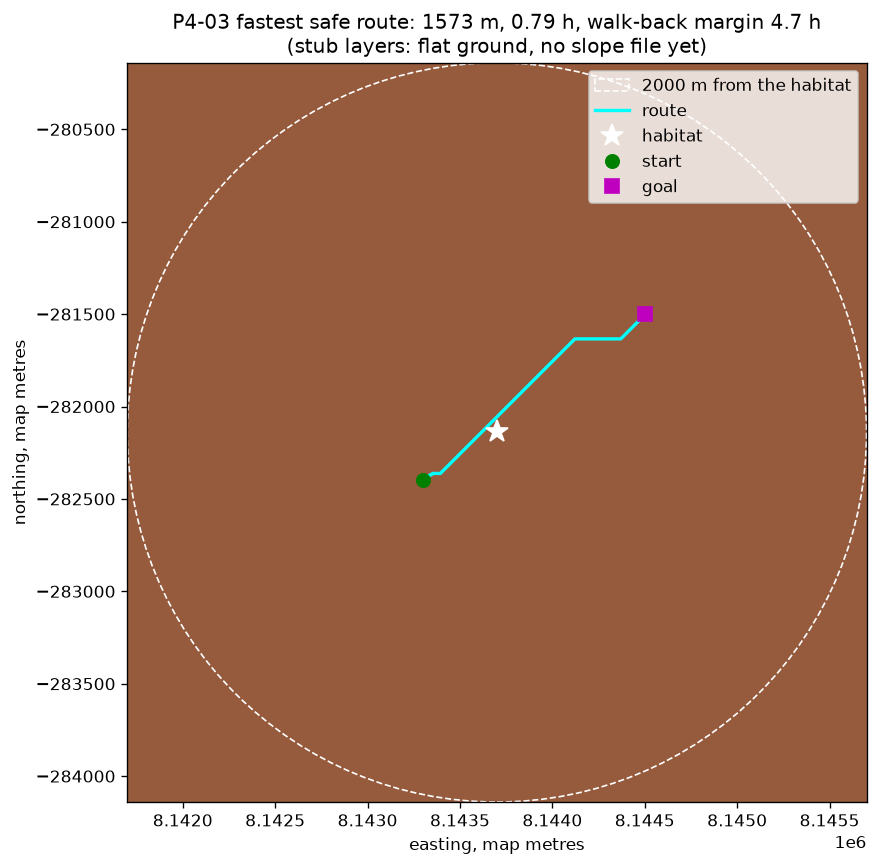
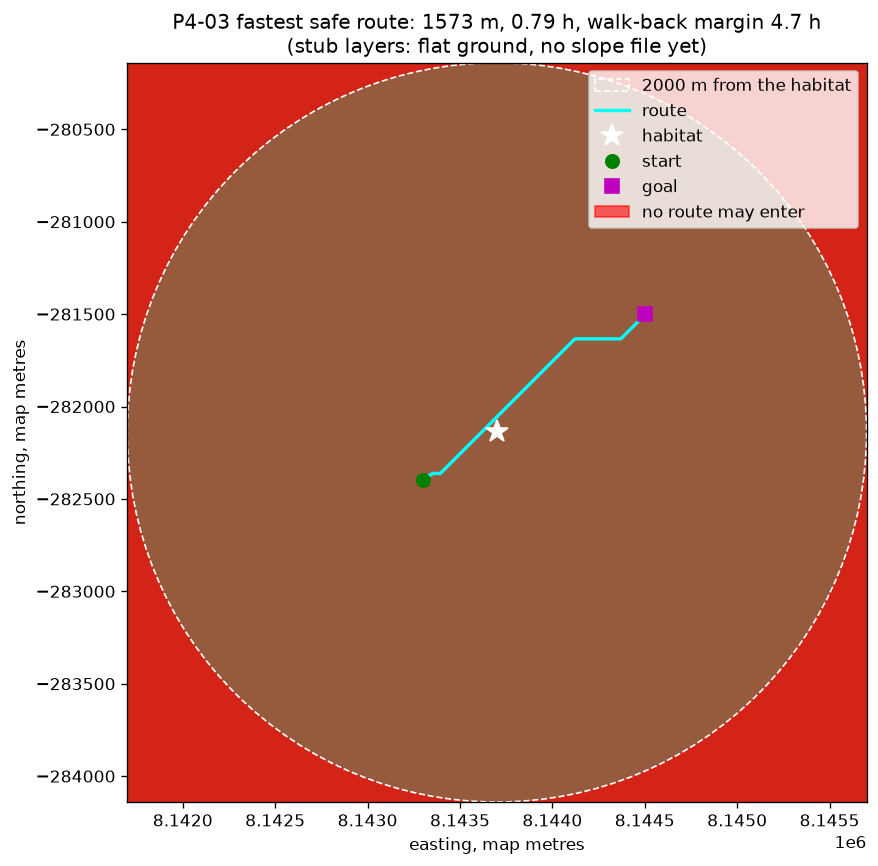
fix: keep unknown terrain unknown and forbid only corner-cutting steps (#37)
Resampling.max skipped nodata pixels, so a partly unknown planning cell could pass the
slope check; now any unknown pixel, or a cell past the file's edge, makes the cell unknown.
Sealing diagonal gaps blocked whole walkable cells; the search now runs on scipy's
Dijkstra over a step graph that drops only the diagonal step between two corner-touching
blocked cells. The overlay shades the engine's own blocked_cells.

Generated with [Devin](https://devin.ai)

diff --git a/route/engine.py b/route/engine.py
@@ -1,8 +1,8 @@
 """The route engine: a cost map from the layers and a minimum-cost path through it.
 
 Every cell costs the seconds it takes to walk across it. Cells that break a hard
-limit cost infinity, so the path search never enters them and no returned route
-can break one.
+limit are left out of the walking graph, so the path search never enters them and no
+returned route can break one.
 """
 
 from __future__ import annotations
@@ -10,7 +10,8 @@ from __future__ import annotations
 from dataclasses import dataclass
 
 import numpy as np
-from skimage.graph import MCP_Geometric
+from scipy.sparse import coo_matrix
+from scipy.sparse.csgraph import dijkstra
 
 from contracts.models.common import Point
 from contracts.models.route_request import Limits
@@ -65,21 +66,25 @@ class CostGrid:
 def plan_on_grid(
     grid: CostGrid, start: Point, goal: Point, habitat: Point, limits: Limits
 ) -> RouteResponse:
-    from_habitat = grid.distance_from(habitat)
-    blocked = ~(grid.slope_deg <= limits.max_slope_deg)
-    blocked |= from_habitat > limits.max_distance_from_habitat_m
+    blocked = blocked_cells(grid, habitat, limits)
     walk_s = _walk_seconds_per_cell(grid, limits.planning_speed_kmh)
-    cost = np.where(_seal_diagonal_gaps(blocked), np.inf, walk_s)
 
-    start_cell, goal_cell = grid.cell(start), grid.cell(goal)
+    start_cell, goal_cell, habitat_cell = grid.cell(start), grid.cell(goal), grid.cell(habitat)
     if start_cell == goal_cell:
         raise ValueError("start and goal are in the same planning cell")
-    mcp = MCP_Geometric(cost)
-    cumulative, _ = mcp.find_costs([start_cell], [goal_cell])
+    shape = blocked.shape
+    seconds, previous = dijkstra(
+        _walking_graph(walk_s, blocked),
+        directed=False,
+        indices=[np.ravel_multi_index(c, shape) for c in (start_cell, habitat_cell)],
+        return_predecessors=True,
+    )
+    cumulative, home = seconds[0].reshape(shape), seconds[1].reshape(shape)
     if not np.isfinite(cumulative[goal_cell]):
         raise NoSafeRoute("every path from start to goal breaks a hard limit")
-    cells = [tuple(c) for c in mcp.traceback(goal_cell)]
+    cells = _trace(previous[0], goal_cell, shape)
 
+    from_habitat = grid.distance_from(habitat)
     path = [grid.centre(r, c) for r, c in cells]
     steps = [
         float(np.hypot(r1 - r0, c1 - c0)) * grid.cell_m
@@ -90,7 +95,6 @@ def plan_on_grid(
     max_walk_s = limits.max_walk_h * 3600
     if total_s > max_walk_s:
         raise NoSafeRoute(f"the fastest safe path takes {total_s / 3600:.1f} h")
-    home, _ = MCP_Geometric(cost).find_costs([grid.cell(habitat)])
     if not all(np.isfinite(home[c]) for c in cells):
         raise NoSafeRoute("part of the route has no safe path back to the habitat")
     walk_back_margin_s = float(min(max_walk_s - cumulative[c] - home[c] for c in cells))
@@ -123,6 +127,73 @@ def plan_on_grid(
         ],
         checkpoints=[],
     )
+
+
+def _legs(cells, steps: list[float], elapsed: np.ndarray) -> list[Leg]:
+    """One leg per straight run of the path."""
+    moves = [(r1 - r0, c1 - c0) for (r0, c0), (r1, c1) in zip(cells, cells[1:], strict=False)]
+    turns = [i for i in range(1, len(moves)) if moves[i] != moves[i - 1]]
+    ends = [0, *turns, len(cells) - 1]
+    return [
+        Leg(
+            start_index=first,
+            end_index=last,
+            distance_m=sum(steps[first:last]),
+            time_s=float(elapsed[cells[last]] - elapsed[cells[first]]),
+        )
+        for first, last in zip(ends, ends[1:], strict=False)
+    ]
+
+
+def _walk_seconds_per_cell(grid: CostGrid, planning_speed_kmh: float) -> np.ndarray:
+    seconds = (3.6 / planning_speed_kmh) * grid.cell_m
+    seconds = seconds * np.exp(TOBLER_RATE * np.tan(np.radians(np.minimum(grid.slope_deg, 89))))
+    seconds = np.where(grid.sand, seconds * SAND_TIME_FACTOR, seconds)
+    return np.where(grid.ridge, seconds * RIDGE_TIME_FACTOR, seconds)
+
+
+def blocked_cells(grid: CostGrid, habitat: Point, limits: Limits) -> np.ndarray:
+    """Cells no route may enter: too steep, no slope data, or too far from the habitat."""
+    blocked = ~(grid.slope_deg <= limits.max_slope_deg)
+    return blocked | (grid.distance_from(habitat) > limits.max_distance_from_habitat_m)
+
+
+# Half the 8 neighbour steps; the graph is undirected, so these cover all 8.
+_STEPS = ((0, 1), (1, 0), (1, 1), (1, -1))
+
+
+def _walking_graph(walk_s: np.ndarray, blocked: np.ndarray):
+    """Every step between two open cells, weighted by its walking time.
+
+    A step costs the mean of its two cells' seconds times its length in cells. A diagonal
+    step between two blocked cells that touch at a corner is left out, so no path slips
+    through a diagonal wall, while both open cells stay walkable.
+    """
+    rows, cols = blocked.shape
+    index = np.arange(blocked.size).reshape(rows, cols)
+    heads, tails, seconds = [], [], []
+    for dr, dc in _STEPS:
+        here = (slice(0, rows - dr), slice(max(0, -dc), cols - max(0, dc)))
+        there = (slice(dr, rows), slice(max(0, dc), cols + min(0, dc)))
+        open_step = ~blocked[here] & ~blocked[there]
+        if dr and dc:
+            open_step &= ~(blocked[here[0], there[1]] & blocked[there[0], here[1]])
+        heads.append(index[here][open_step])
+        tails.append(index[there][open_step])
+        seconds.append(((walk_s[here] + walk_s[there]) / 2 * np.hypot(dr, dc))[open_step])
+    return coo_matrix(
+        (np.concatenate(seconds), (np.concatenate(heads), np.concatenate(tails))),
+        shape=(blocked.size, blocked.size),
+    ).tocsr()
+
+
+def _trace(previous: np.ndarray, goal_cell: tuple[int, int], shape) -> list[tuple[int, int]]:
+    """The cells from the search's start to the goal, following each cell's predecessor."""
+    node, nodes = int(np.ravel_multi_index(goal_cell, shape)), []
+    while node >= 0:
+        nodes.append(node)
+        node = int(previous[node])
+    return [tuple(int(i) for i in np.unravel_index(n, shape)) for n in reversed(nodes)]
 
 
 def _legs(cells, steps: list[float], elapsed: np.ndarray) -> list[Leg]:

diff --git a/route/layers.py b/route/layers.py
@@ -4,7 +4,8 @@ The rasters are GeoTIFFs named in sites/<site>.yaml `files`, relative to REDMARK
 `slope` (degrees), `sand` (non-zero on loose sand) and `ridges` (non-zero on a boxwork
 ridge). Each planning cell keeps the worst value of the pixels inside it, so a steep
 metre is never averaged away. A site config with no `slope` file plans on flat stub
-ground; a missing sand or ridge file means none.
+ground; a missing sand or ridge file means none. A cell holding any pixel with no data,
+or reaching past the edge of the file, has no data.
 """
 
 from __future__ import annotations
@@ -16,18 +17,23 @@ import numpy as np
 import rasterio
 from rasterio.enums import Resampling
 from rasterio.transform import from_origin
-from rasterio.warp import reproject
+from rasterio.warp import reproject, transform_bounds
+from rasterio.windows import Window, from_bounds
 
 from contracts.models.site import SiteConfig
 from route.engine import CostGrid
 
 # Planning cell size: coarse enough that a route over the 4 km walk area comes back in seconds.
 PLANNING_CELL_M = 4.0
+# Stands in for a pixel with no data while cells take their highest pixel, so any such
+# pixel makes the whole cell unknown instead of being skipped.
+_UNKNOWN = np.finfo(np.float32).max
 
 
 def load_grid(site: SiteConfig, data_root: Path, cell_m: float = PLANNING_CELL_M) -> CostGrid:
     b = site.bounds
     shape = (math.ceil((b.max_y - b.min_y) / cell_m), math.ceil((b.max_x - b.min_x) / cell_m))
+    b_box = (b.min_x, b.max_y - shape[0] * cell_m, b.min_x + shape[1] * cell_m, b.max_y)
 
     def read(key: str) -> np.ndarray | None:
         if key not in site.files:
@@ -35,17 +41,27 @@ def load_grid(site: SiteConfig, data_root: Path, cell_m: float = PLANNING_CELL_M
         path = data_root / site.files[key]
         if not path.is_file():
             raise FileNotFoundError(f"{key} layer {path} named in the {site.site} site config")
-        out = np.full(shape, np.nan, dtype=np.float32)
         with rasterio.open(path) as src:
-            reproject(
-                source=rasterio.band(src, 1),
-                destination=out,
-                src_crs=src.crs or site.projection,
-                dst_transform=from_origin(b.min_x, b.max_y, cell_m, cell_m),
-                dst_crs=site.projection,
-                dst_nodata=np.nan,
-                resampling=Resampling.max,
+            src_crs = src.crs or site.projection
+            window = _covering(
+                from_bounds(*transform_bounds(site.projection, src_crs, *b_box), src.transform)
             )
+            band = src.read(1, window=window, boundless=True, masked=True)
+            src_transform = src.window_transform(window)
+        unknown = np.ma.getmaskarray(band) | ~np.isfinite(band.filled(0))
+        values = np.where(unknown, _UNKNOWN, band.filled(0)).astype(np.float32)
+        out = np.full(shape, _UNKNOWN, dtype=np.float32)
+        reproject(
+            source=values,
+            destination=out,
+            src_transform=src_transform,
+            src_crs=src_crs,
+            dst_transform=from_origin(b.min_x, b.max_y, cell_m, cell_m),
+            dst_crs=site.projection,
+            resampling=Resampling.max,
+            init_dest_nodata=False,
+        )
+        out[out >= _UNKNOWN] = np.nan
         return out
 
     slope, sand, ridge = read("slope"), read("sand"), read("ridges")
@@ -58,3 +74,11 @@ def load_grid(site: SiteConfig, data_root: Path, cell_m: float = PLANNING_CELL_M
         sand=np.zeros(shape, dtype=bool) if sand is None else sand > 0,
         ridge=np.zeros(shape, dtype=bool) if ridge is None else ridge > 0,
     )
+
+
+def _covering(window: Window) -> Window:
+    """The whole-pixel window that covers a fractional one."""
+    col0, row0 = math.floor(round(window.col_off, 6)), math.floor(round(window.row_off, 6))
+    col1 = math.ceil(round(window.col_off + window.width, 6))
+    row1 = math.ceil(round(window.row_off + window.height, 6))
+    return Window(col0, row0, col1 - col0, row1 - row0)

diff --git a/route/plot_route.py b/route/plot_route.py
@@ -14,11 +14,13 @@ matplotlib.use("Agg")
 import matplotlib.image as mpimg  # noqa: E402
 import matplotlib.pyplot as plt  # noqa: E402
 import numpy as np  # noqa: E402
+from matplotlib.patches import Patch  # noqa: E402
 
 from contracts.models.layer import LayerMeta  # noqa: E402
 from contracts.models.route_request import RouteRequest  # noqa: E402
 from contracts.paths import REPO_ROOT, data_root  # noqa: E402
 from route.api import load_site, plan  # noqa: E402
+from route.engine import blocked_cells  # noqa: E402
 from route.layers import load_grid  # noqa: E402
 
 OUT = REPO_ROOT / "route" / "overlays"
@@ -42,7 +44,7 @@ def main() -> None:
         grid.max_y - rows * grid.cell_m,
         grid.max_y,
     )
-    blocked = ~(grid.slope_deg <= limits.max_slope_deg)
+    blocked = blocked_cells(grid, site.habitat, limits)
     ax.imshow(np.ma.masked_where(~blocked, blocked), extent=grid_extent, cmap="autumn", alpha=0.6)
     ax.add_patch(
         plt.Circle(
@@ -68,7 +70,9 @@ def main() -> None:
     )
     ax.set_xlabel("easting, map metres")
     ax.set_ylabel("northing, map metres")
-    ax.legend(loc="upper right")
+    handles, _ = ax.get_legend_handles_labels()
+    shaded = Patch(color=plt.get_cmap("autumn")(0.0), alpha=0.6, label="no route may enter")
+    ax.legend(handles=[*handles, shaded], loc="upper right")
     OUT.mkdir(parents=True, exist_ok=True)
     fig.savefig(OUT / "p4-03-fastest.png", dpi=120, bbox_inches="tight")
     plt.close(fig)

diff --git a/route/tests/test_route_layers.py b/route/tests/test_route_layers.py
@@ -17,6 +17,7 @@ from contracts.paths import REPO_ROOT
 from route.api import plan
 from route.layers import load_grid
 
+NODATA = -9999.0
 PROJECTION = "+proj=eqc +lat_ts=0 +lon_0=0 +R=3396190 +units=m +no_defs"
 
 
@@ -47,6 +48,7 @@ def write_raster(path, values) -> None:
         dtype="float32",
         crs=PROJECTION,
         transform=from_origin(1000, 2008, 1.0, 1.0),
+        nodata=NODATA,
     ) as dst:
         dst.write(values, 1)
 
@@ -60,6 +62,26 @@ def test_slope_is_read_onto_the_planning_grid_keeping_the_steepest_metre(tmp_pat
 
     assert (g.min_x, g.max_y, g.cell_m) == (1000, 2008, 4.0)
     assert g.slope_deg.tolist() == [[5, 25], [5, 5]]
+
+
+def test_a_planning_cell_with_any_unknown_metre_is_unknown(tmp_path):
+    slope = np.full((8, 8), 5.0)
+    slope[0:2, 0:2] = NODATA
+    write_raster(tmp_path / "slope.tif", slope)
+
+    g = load_grid(site({"slope": "slope.tif"}), tmp_path, cell_m=4.0)
+
+    assert np.isnan(g.slope_deg[0, 0])
+    assert g.slope_deg[0, 1] == 5 and g.slope_deg[1].tolist() == [5, 5]
+
+
+def test_a_planning_cell_the_slope_file_only_half_covers_is_unknown(tmp_path):
+    write_raster(tmp_path / "slope.tif", np.full((6, 8), 5.0))
+
+    g = load_grid(site({"slope": "slope.tif"}), tmp_path, cell_m=4.0)
+
+    assert g.slope_deg[0].tolist() == [5, 5]
+    assert np.isnan(g.slope_deg[1]).all()
 
 
 def test_sand_and_ridge_maps_are_read_as_masks(tmp_path):

diff --git a/route/tests/test_route_engine.py b/route/tests/test_route_engine.py
@@ -245,3 +245,13 @@ def test_no_route_when_the_crew_could_not_walk_home_in_time():
 
     with pytest.raises(NoSafeRoute):
         plan_on_grid(g, start, goal, start, limits)
+
+
+def test_steep_cells_touching_at_a_corner_leave_their_neighbours_walkable():
+    slope = np.zeros((5, 5))
+    slope[1, 1] = slope[2, 2] = 30
+    g = grid(slope)
+
+    route = plan_on_grid(g, centre(g, 1, 2), centre(g, 0, 4), centre(g, 0, 4), DEFAULT_LIMITS)
+
+    assert cells(g, route.path)[0] == (1, 2)

diff --git a/route/README.md b/route/README.md
@@ -5,9 +5,9 @@ Owner: Person 4 (route and simulation).
 The route engine behind `POST /route`: cost map, fastest safe, science and cart routes, limit checks.
 
 - `api.py`: `plan(RouteRequest) -> RouteResponse`, the one call the service makes. Raises `NoSafeRoute` when every path breaks a hard limit, so no returned route ever breaks one.
-- `engine.py`: the cost map (seconds to walk each cell: Tobler's hiking function on slope, loose sand x1.6, ridges x3) and the minimum-cost path (scikit-image `MCP_Geometric`). Cells steeper than the slope limit, without slope data, or beyond the distance from the habitat cannot be entered, and blocked cells touching only at a corner are sealed so a diagonal step can't slip through a wall.
-- `layers.py`: reads the layers onto a 4 m planning grid over the walk area, keeping the worst pixel in each cell.
-- `plot_route.py`: the overlay image, `route/overlays/p4-03-fastest.png`.
+- `engine.py`: the cost map (seconds to walk each cell: Tobler's hiking function on slope, loose sand x1.6, ridges x3) and the minimum-cost path (scipy Dijkstra over 8-neighbour steps). `blocked_cells` gives the cells no route may enter: steeper than the slope limit, without slope data, or beyond the distance from the habitat. A diagonal step between two blocked cells that touch at a corner is not allowed, so no path slips through a diagonal wall; the open cells beside it stay walkable.
+- `layers.py`: reads the layers onto a 4 m planning grid over the walk area, keeping the worst pixel in each cell; a cell with any pixel of no data has no data.
+- `plot_route.py`: the overlay image, `route/overlays/p4-03-fastest.png`, shading `blocked_cells`.
 
 **Walk-back margin.** The least spare time at any point of the route: the walk-time limit minus the time walked so far and the fastest safe walk from that point back to the habitat. A route whose margin would go negative is refused with `NoSafeRoute`; the `walk_back` limit check itself comes with P4-04.
 
